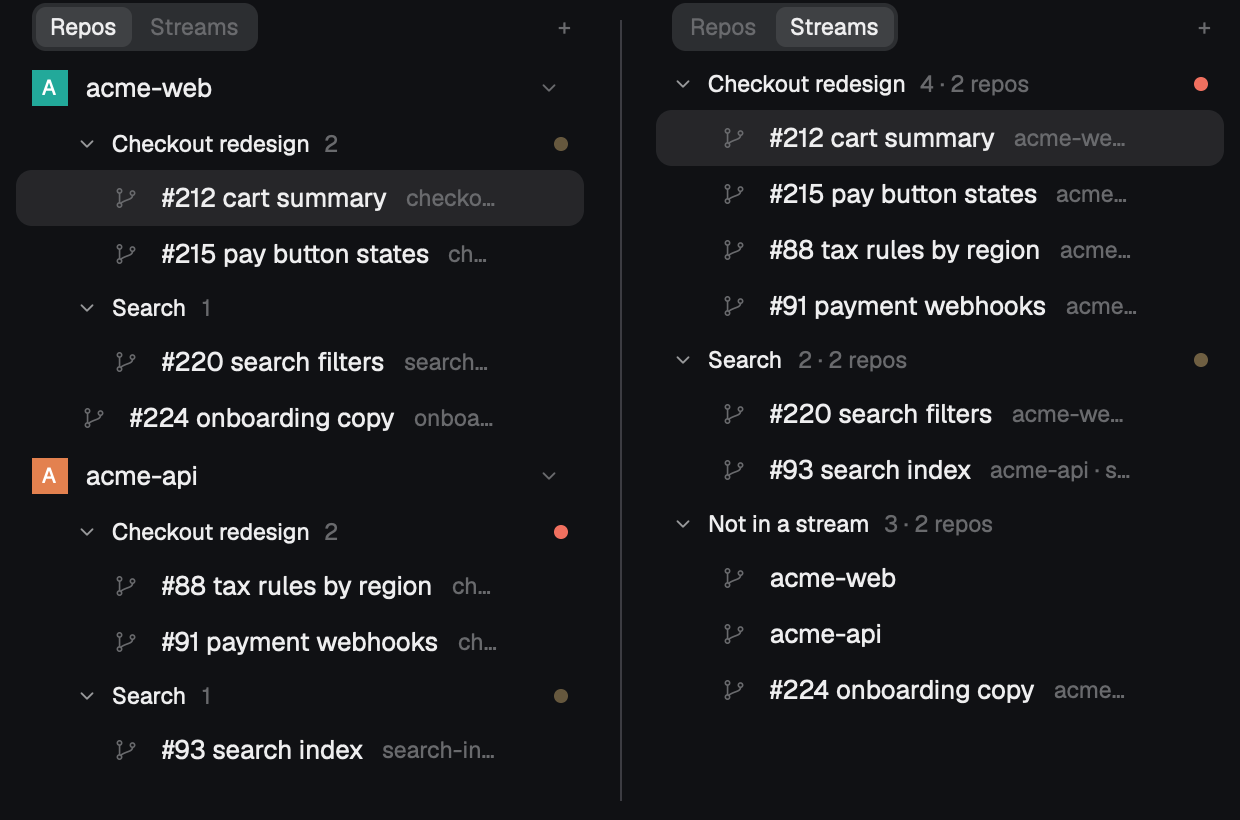
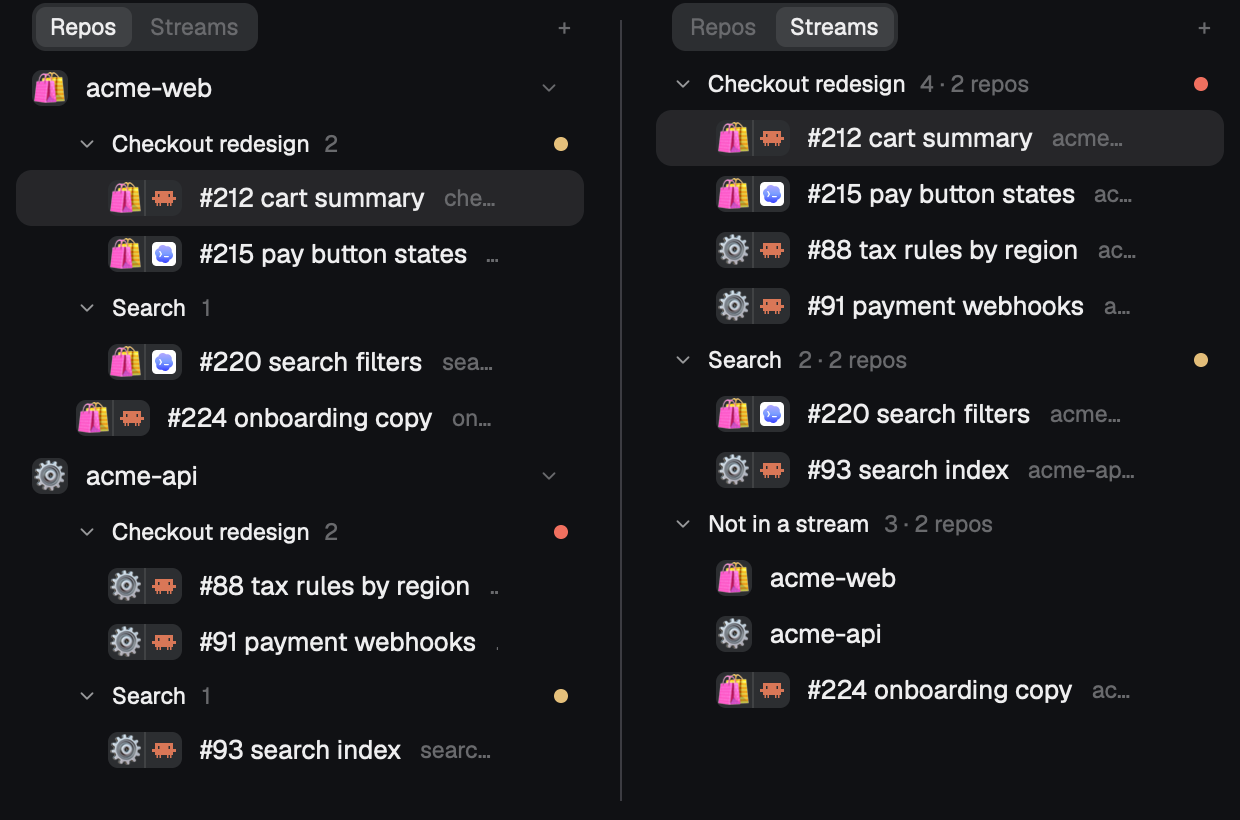
Bundle the emoji picker; repo mark on every Streams row; agent install prompt; new screenshots

diff --git a/mods/emoji-picker/main.js b/mods/emoji-picker/main.js
@@ -1,0 +1,123 @@
+// A popup for a space's (really its repo's) emoji. props: { key, name, overlay }.
+// Without props (a key bound to "mod.open:emoji-picker"), it's for the focused space's repo.
+// Choices live in shared("space.emoji"): { [key]: "🦊" }, read by sidebars such as space-streams.
+// Keys: a repo's is JSON [machine, absolute git common dir]; a space outside a repo's is "space:<id>".
+// Search uses macOS's own emoji search data (system-index.py), so "fox", "celebrate"
+// or "coffee" find what the system picker would.
+import { View, div } from "gpui-kit";
+import { v_flex, h_flex, InputState, Input } from "gpui-base";
+import { props, shared, setShared, closeOverlay, theme, exec, appHome, spaces, panes } from "herdr";
+
+// The focused space's target: its repo (shared by the repo's worktrees), else the space itself.
+async function focusedTarget() {
+  const s = spaces().find((x) => x.active);
+  if (!s) return null;
+  const tabs = new Set((s.tabs ?? []).map((c) => c.id));
+  const cwd = panes().find((p) => tabs.has(p.tab) && p.cwd)?.cwd || s.folder;
+  const on = s.machine ?? null;
+  const r = await exec("git", ["rev-parse", "--path-format=absolute", "--git-common-dir"], { cwd, on }).catch(() => null);
+  if (!r || r.code !== 0) return { key: `space:${s.id}`, name: s.name };
+  const dir = r.stdout.trim();
+  const name = dir.endsWith("/.git") ? dir.slice(0, -5).split("/").pop() : dir.split("/").pop().replace(/\.git$/, "");
+  return { key: JSON.stringify([on, dir]), name };
+}
+
+const KEY = "space.emoji";
+// Every match shows (scroll for more); the cap only guards a one-letter search.
+const COLUMNS = 10, SHOWN = 500, GRID_HEIGHT = 5 * 30 + 4 * 2;
+const START = [
+  "🚀", "🧠", "🧪", "🛠", "⚙", "🔥", "✨", "🌱", "🌊", "⚡",
+  "🎯", "📦", "🧩", "🗺", "🧭", "🏗", "🎨", "🖼", "👗", "👕",
+  "🛍", "💸", "📈", "📊", "🗄", "🔒", "🤖", "👾", "🐙", "🦊",
+  "🐝", "🦄", "🐳", "🦉", "🌵", "🍄", "🍋", "🍕", "☕", "🎲",
+  "🏴☠", "⛵", "🪐", "🌙", "☀", "🌈", "💎", "🔮", "🎸", "📚",
+];
+
+// The system index, built once per load of this mod and shared by every popup.
+let index = null;
+async function loadIndex() {
+  if (index) return index;
+  const r = await exec("python3", ["-I", `${appHome()}/mods/emoji-picker/system-index.py`]);
+  if (r.code !== 0) throw new Error(r.stderr.trim() || "no emoji index");
+  const data = JSON.parse(r.stdout);
+  index = { ...data, vocabulary: Object.keys(data.terms) };
+  return index;
+}
+
+// Every word must match a search term (whole, or as its start, while typing). An emoji whose
+// own name has the word ranks first, then the system's order for that term.
+function search(ix, query) {
+  const words = query.toLowerCase().split(/\s+/).filter(Boolean);
+  if (!words.length) return [];
+  let scores = null;
+  for (const word of words) {
+    const found = new Map();
+    const terms = ix.terms[word] ? [word] : [];
+    for (const term of ix.vocabulary) if (terms.length < 40 && term !== word && term.startsWith(word)) terms.push(term);
+    for (const term of terms) {
+      ix.terms[term].forEach((i, rank) => {
+        const name = (ix.names[ix.items[i]] ?? "").toLowerCase();
+        const score = (term === word ? 2 : 1) + (name.split(/\s+/).some((w) => w.startsWith(word)) ? 4 : 0) + 1 / (rank + 1);
+        found.set(i, Math.max(found.get(i) ?? 0, score));
+      });
+    }
+    scores = scores ? new Map([...scores].filter(([i]) => found.has(i)).map(([i, s]) => [i, s + found.get(i)])) : found;
+  }
+  return [...scores].sort((a, b) => b[1] - a[1]).slice(0, SHOWN).map(([i]) => ix.items[i]);
+}
+
+export default class EmojiPicker extends View {
+  init(_props, cx) {
+    this.query = ""; this.results = []; this.error = null; this.hover = null;
+    this.input = InputState.new({ placeholder: "Search emoji" });
+    this.input.on("change", (_e, cx) => { this.query = this.input.value(); this.update(cx); });
+    this.input.focus();
+    const p = props() ?? {};
+    this.target = p.key ? { key: p.key, name: p.name } : null;
+    if (!this.target) cx.spawn(async (cx) => { this.target = await focusedTarget(); cx.notify(); });
+    cx.spawn(async (cx) => {
+      try { await loadIndex(); } catch (e) { this.error = String(e?.message ?? e); }
+      this.update(cx);
+    });
+  }
+
+  update(cx) {
+    this.results = index ? search(index, this.query) : [];
+    cx.notify();
+  }
+
+  pick(emoji) {
+    const key = this.target?.key, overlay = props()?.overlay;
+    if (!key) return;
+    const all = { ...(shared(KEY) ?? {}) };
+    if (emoji) all[key] = emoji; else delete all[key];
+    setShared(KEY, all);
+    closeOverlay(overlay);
+  }
+
+  render() {
+    const t = theme(), key = this.target?.key, name = this.target?.name ?? "…", now = key ? (shared(KEY) ?? {})[key] : undefined;
+    const searching = Boolean(this.query.trim());
+    const shown = searching ? this.results : START;
+    const cell = (e, i) => div().id(`emoji-${i}`).size(30).flex().items_center().justify_center().rounded(6).text_size(17).cursor_pointer()
+      .when(e === now, (el) => el.bg(t.selected)).hover((s) => s.bg(t.hover))
+      .on_hover((on, cx) => { if (on) this.hover = e; else if (this.hover === e) this.hover = null; cx.notify(); })
+      .on_click(() => this.pick(e)).child(e);
+    const rows = [];
+    for (let i = 0; i < shown.length; i += COLUMNS) rows.push(h_flex().gap(2).children(shown.slice(i, i + COLUMNS).map((e, j) => cell(e, i + j))));
+    const label = this.hover ? index?.names[this.hover] ?? this.hover
+      : this.error ? `Search unavailable: ${this.error}`
+      : searching && !index ? "Loading the system's emoji…"
+      : searching && !shown.length ? "No emoji match"
+      : searching ? `${shown.length}${shown.length === SHOWN ? "+" : ""} match${shown.length === 1 ? "" : "es"}` : "Type to search all emoji";
+    return v_flex().id("emoji-picker").size_full().p(10).gap(8).bg(t.popover).text_color(t.foreground).text_size(12)
+      .child(h_flex().gap(6).items_center()
+        .child(div().flex_1().min_w(0).truncate().font_semibold().child(`Icon for ${name}`))
+        .when(Boolean(now), (el) => el.child(div().id("emoji-clear").px(6).py(2).rounded(5).text_size(11).text_color(t.muted).cursor_pointer()
+          .hover((s) => s.bg(t.hover).text_color(t.foreground)).on_click(() => this.pick(null)).child("Use letter"))))
+      .child(Input.new(this.input).h(30).px(8).rounded(7).border_1().border_color(t.input).bg(t.background).text_size(12).text_color(t.foreground))
+      // A popup sizes to its content, so the grid gets a fixed five-row height and scrolls past it.
+      .child(v_flex().id("emoji-grid").flex_none().h(GRID_HEIGHT).overflow_y_scrollbar().gap(2).children(rows))
+      .child(div().flex_none().h(16).text_size(11).text_color(t.dim).truncate().child(label));
+  }
+}

diff --git a/mods/space-streams/main.js b/mods/space-streams/main.js
@@ -663,7 +663,7 @@ export default class Spaces extends View {
           .gap(9)
           .items_center()
           .when(Boolean(tree), el => el.pl(depth === 2 ? 38 : 22))
-          .child(this.avatar(w, g, tree, fill, t))
+          .child(this.avatar(w, g, tree, fill, t, inStream))
           .child(div().flex_shrink(1).min_w(0).max_w(150).truncate().text_color(t.foreground).child(w.name))
           .children(g ? this.gitTail(g, inStream ? null : tree, w.name, t, where(w, panes())) : [div().flex_1()])
           // A repo's main checkout: + starts a new workspace (worktree, setup, agent) in it.
@@ -697,13 +697,15 @@ export default class Spaces extends View {
   }
 
   // The repo's emoji (else the name's first letter on its color); with an agent running in the
-  // space, half emoji and half the agent's icon. With emoji-picker installed, click it to choose the emoji.
-  avatar(w, g, tree, fill, t) {
+  // space, half emoji and half the agent's icon. Click it to choose the emoji (emoji-picker, bundled).
+  // In Streams view a row always wears its repo's mark (emoji, else letter on the repo's color),
+  // since rows from different repos sit side by side there.
+  avatar(w, g, tree, fill, t, inStream = false) {
     const emoji = (shared("space.emoji") ?? {})[emojiKey(w, g)];
     const agent = agentOf(w, panes());
     const mark = emoji
       ? div().size(18).flex_none().flex().items_center().justify_center().text_size(12.5).child(emoji)
-      : tree && !agent
+      : tree && !agent && !inStream
         ? div().size(18).flex_none().flex().items_center().justify_center().child(svg("mods/workspace-chrome/branch.svg").size(13).text_color(t.dim))
         : div().size(18).flex_none().flex().items_center().justify_center().bg(tree ? this.repoFill(g, t) ?? fill : fill).text_size(10.5).font_bold().text_color("#ffffff").child([...(tree ? g?.name ?? w.name : w.name)][0]?.toUpperCase() ?? "?");
     const picker = Boolean(this.has?.["emoji-picker"]);

diff --git a/mods/emoji-picker/system-index.py b/mods/emoji-picker/system-index.py
@@ -1,0 +1,49 @@
+# Prints macOS's own emoji search data as JSON for the picker: the emoji in the system's order,
+# their names, and each search term's emoji, best match first. Read from CoreEmoji, so it is
+# the same search the system picker does and follows OS updates.
+import json
+import plistlib
+import sys
+
+ROOT = "/System/Library/PrivateFrameworks/CoreEmoji.framework/Versions/A/Resources/"
+LANG = sys.argv[1] if len(sys.argv) > 1 else "en"
+SKIN = set(range(0x1F3FB, 0x1F400))
+
+
+def emoji_list():
+    # emojimeta.dat holds the system's emoji as one NUL-separated UTF-8 run; the search
+    # index numbers them from 1 in that order.
+    text = open(ROOT + "emojimeta.dat", "rb").read().decode("utf-8", "ignore")
+    at = text.find("\U0001F600")
+    part = lambda c: c == "\x00" or ord(c) > 0x7F or c in "#*0123456789"
+    start = end = at
+    while start > 0 and part(text[start - 1]):
+        start -= 1
+    while end < len(text) and part(text[end]):
+        end += 1
+    return [e for e in text[start:end].split("\x00") if e]
+
+
+def load(name):
+    with open(ROOT + name, "rb") as f:
+        return plistlib.load(f)
+
+
+items = emoji_list()
+names = load(f"{LANG}.lproj/AppleName.strings")
+terms_in = load(f"SearchModel-{LANG}/term_index.plist")
+docs = load(f"SearchModel-{LANG}/document_index.plist")
+
+terms = {}
+for term, ids in terms_in.items():
+    ranked = []
+    for i in ids:
+        e = items[i - 1] if 0 < i <= len(items) else None
+        # Skin-tone variants crowd every people search; the base emoji stands for them.
+        if not e or any(ord(c) in SKIN for c in e):
+            continue
+        ranked.append((-(docs.get(str(i), {}).get(term, {}).get("w", 0)), i - 1))
+    if ranked:
+        terms[term] = [i for _, i in sorted(ranked)]
+
+json.dump({"items": items, "names": names, "terms": terms}, sys.stdout, ensure_ascii=False, separators=(",", ":"))

diff --git a/RECIPE.md b/RECIPE.md
@@ -1,8 +1,10 @@
 # Space Streams
 
-A Spaces sidebar for people running many agents at once. A repo's worktree spaces go into named groups that fold away, and groups with the same name in different repos form one **work stream**. A Repos | Streams toggle at the top switches between "everything under its repo" and "everything in this effort, whatever repo it's in". Agents can put themselves in a stream with one `hc label`.
+A Spaces sidebar for people running many agents at once. A repo's worktree spaces go into named groups that fold away, and groups with the same name in different repos form one **work stream**. A Repos | Streams toggle at the top switches between "everything under its repo" and "everything in this effort, whatever repo it's in". Every repo can wear an **emoji**, and each row shows its repo's emoji next to its agent's icon. In a stream that mixes repos, that's how you tell at a glance which repo and which agent each space is. Agents can put themselves in a stream with one `hc label`.
 
 ![Space Streams](preview.png)
+
+![Picking a repo's emoji](emoji.png)
 
 ## What you see
 
@@ -14,6 +16,8 @@ The sidebar, top to bottom (it replaces Herdr's `spaces` block, about 240–300 
   - **Group members:** indented 38 px.
   - Ungrouped worktrees come after the groups.
 - **Streams view:** one header per stream, flush left: chevron, name, then "N" or "N · M repos". Its spaces from every repo are listed under it, each showing its repo name after its own name. Last comes **Not in a stream** with everything else.
+- **Avatars (18 px, 5 px corners):** the repo's emoji, else its first letter in white on the repo's color. A space with an agent running shows two halves: the repo mark, then the agent's icon (Claude, Codex, …) on `raised`. Worktrees share their repo's emoji and color. In Repos view a worktree without an agent shows a branch icon. In Streams view every row shows its repo mark.
+- **Emoji picker popup (360×300):** "Icon for <repo>" with a "Use letter" button, a search field, a 10-column grid of 30 px cells (50 starter emoji, or every search match up to 500), and a footer line with the hovered emoji's name or the match count.
 - **Narrow rail (< 160 px):** spaces only, no group headers.
 
 ## How it behaves
@@ -26,7 +30,8 @@ The sidebar, top to bottom (it replaces Herdr's `spaces` block, about 240–300 
 - **Agents group themselves:** `hc label "$HC_TERMINAL_ID" herdr.group="Checkout redesign"`. Within a second the sidebar puts that terminal's space into the group of that name in the space's repo (matched case-insensitively), creating it if needed. A label only acts when its value changes, so moving a space by hand sticks. Main checkouts and spaces outside a repo are ignored.
 - Closed spaces leave their group, and empty groups are deleted.
 - `data/space-groups.json` (under the Herdr home) is rewritten whenever groups change: every repo's groups, and the space names in each. Agents read it to reuse an existing stream name.
-- **Companions:** with `emoji-picker` installed, clicking an avatar picks the repo's emoji. With `new-workspace` installed, a repo's `+` opens it. Otherwise `+` opens Herdr's shipped worktree dialog. Worktree `×` always uses the shipped worktree remove dialog.
+- **Emoji:** click any avatar, or press `cmd-shift-e` for the focused space, to pick that repo's emoji. Search uses macOS's own emoji search, so "fox", "celebrate" or "coffee" find what the system picker finds. Picking sets it for the repo and all of its worktrees, and "Use letter" clears it.
+- **Companion:** with [herdr-one-agent-one-worktree](https://github.com/geooff/herdr-one-agent-one-worktree) (`new-workspace`) installed, a repo's `+` opens it. Otherwise `+` opens Herdr's shipped worktree dialog. Worktree `×` always uses the shipped worktree remove dialog.
 
 ## Built from
 
@@ -37,12 +42,14 @@ The sidebar, top to bottom (it replaces Herdr's `spaces` block, about 240–300 
   - **Herdr calls used:** `spaces()`, `panes()`, `terminals()`, `exec("git", …)`, `hc(["machine","ls"])`, `space.select`, `space.move`, `space.new`, `openOverlay`, and `fs/promises` `writeFile` for `data/space-groups.json`.
 - `mods/space-group`: the dialog (`kind: "dialog"`, 420×380). Props: `{ space }`, `{ group }` or `{ stream }`. It runs `git rev-parse --git-common-dir` in the space's folder to find its repo.
 - `mods/space-streams-menu`: the space right-click menu. It's a copy of Herdr's `menu` with **Move to group…** added for worktree spaces. It uses the shipped `worktree` dialog.
-- `keys.json`: `cmd-shift-g` → `space-streams.group`.
+- `mods/emoji-picker`: the popup (`place: "none"`, overlay 360×300). Props: `{ key, name }`. Without props it targets the focused space's repo. Choices live in `shared("space.emoji")` as `{ [key]: "🦊" }`, where a repo's key is the same `[machine, git common dir]` JSON and a space outside a repo uses `space:<id>`. `system-index.py` prints macOS's emoji search data (CoreEmoji framework resources) as JSON, and the picker runs it once with `python3 -I`.
+- **Agent icons:** from `panes()[i].program` (`agent` and `icon`), the same table Herdr's Agents list uses.
+- `keys.json`: `cmd-shift-g` → `space-streams.group`, `cmd-shift-e` → `mod.open:emoji-picker`.
 - **Icons:** the shipped `mods/workspace-chrome/*.svg`.
 
 ## Install
 
-1. Copy the three `mods/` folders into your Herdr home's `mods/`, `mod.json` first. Herdr docks a folder it sees without one.
+1. Copy the four `mods/` folders into your Herdr home's `mods/`, `mod.json` first. Herdr docks a folder it sees without one.
 2. Merge `keys.json` into yours.
 3. Clone your layout (`herdr-app do layout.clone '{"name":"main","as":"my-layout"}'`) and change the `spaces` block's `"mod": "spaces"` to `"mod": "space-streams"`.
 4. Optional: tell your agents about it. For example, in `~/.claude/CLAUDE.md`:
@@ -51,7 +58,7 @@ The sidebar, top to bottom (it replaces Herdr's `spaces` block, about 240–300 
 
 ## Watch out
 
-- **Runs programs:** `git` in each space's folder (on its machine for remote spaces) and `hc machine ls`. It writes one file outside its folder: `data/space-groups.json` in the Herdr home.
+- **Runs programs:** `git` in each space's folder (on its machine for remote spaces), `hc machine ls`, and `python3` for emoji search (reading macOS system files). Off macOS, emoji search shows "Search unavailable" but the starter grid still works. It writes one file outside its folder: `data/space-groups.json` in the Herdr home.
 - Rows in the list that aren't spaces (group headers) still need to be counted in drag geometry. Every drawn row carries a `key` (space id or `grp:<id>`), and a drag shifts rows by key.
 - A worktree only nests (and can be grouped) once the sidebar has seen its main checkout as a space. With the main checkout closed, its worktrees show flat at top level and their groups aren't drawn in Repos view (they still are in Streams).
 - Group names are matched case-insensitively and trimmed. "Props" and "Props & scenes" are different streams, so tell agents to copy names exactly.
@@ -66,4 +73,5 @@ The sidebar, top to bottom (it replaces Herdr's `spaces` block, about 240–300 
 - Clicking the header folds it to one row (plus the shown space). A blocked agent in a folded group shows a dot.
 - Right-click → Move to group… → typing a new name and Enter moves the space under a new header. Remove from group puts it back, and the empty group disappears.
 - Closing a grouped space removes it from the group.
-- `herdr-app check` passes for all three mods.
+- Clicking a repo's avatar opens "Icon for <repo>". Typing "fox" finds 🦊, and picking it shows 🦊 on the repo and every worktree. In Streams view, a row with an agent shows 🦊 plus the agent's icon.
+- `herdr-app check` passes for all four mods.

diff --git a/README.md b/README.md
@@ -1,9 +1,48 @@
 # Space Streams
 
-Herdr's Spaces sidebar with **groups** and **work streams**: fold a repo's worktree spaces into named groups, then flip to Streams to see one effort's agents across every repo. Agents can file themselves with `hc label "$HC_TERMINAL_ID" herdr.group="<name>"`.
+**Install: paste this to your agent inside Herdr**
 
-![Space Streams](preview.png)
+```text
+Read ~/.config/herdr-app/AGENTS.md, then add the Herdr mod at https://github.com/geooff/herdr-space-streams
+and make it my Spaces sidebar. Follow the "For agents" section of its README.
+```
 
-A mod for the [Herdr app](https://herdr.dev). Install it by asking your agent to "add herdr.dev/mods/geooff/herdr-space-streams", or by hand: copy the `mods/` folders into `~/.config/herdr-app/mods/` (`mod.json` first) and merge `keys.json` into yours. [RECIPE.md](RECIPE.md) describes exactly what it does and how it's built.
+---
 
-Works on its own. Picks up [herdr-emoji-picker](https://github.com/geooff/herdr-emoji-picker) and [herdr-new-workspace](https://github.com/geooff/herdr-new-workspace) when they're installed. Based on Herdr's shipped `spaces` and `menu` mods.
+Herdr's Spaces sidebar, rebuilt for running many agents at once:
+
+- **Groups:** a repo's worktree spaces fold into named groups.
+- **Streams:** flip the toggle to see one effort across every repo. Groups with the same name in different repos merge into one work stream.
+- **Repo emoji:** every row shows its repo's emoji next to its agent's icon, so in a mixed stream you can tell at a glance which repo and which agent each space is.
+- **Agents file themselves:** `hc label "$HC_TERMINAL_ID" herdr.group="<stream name>"`.
+
+![Repos view and Streams view](preview.png)
+
+![Picking a repo's emoji](emoji.png)
+
+| | |
+|---|---|
+| Click a group or stream header | fold it (it still shows the space you're in, and a dot if a hidden agent is blocked or done) |
+| Double-click or right-click a header | rename, ungroup, collapse others |
+| Right-click a worktree → **Move to group…**, or `cmd-shift-g` | pick a group, join a stream from another repo, or name a new one |
+| Drag a worktree onto a header | move it in |
+| Click an avatar, or `cmd-shift-e` | pick the repo's emoji (macOS emoji search) |
+
+It works on its own. With [herdr-one-agent-one-worktree](https://github.com/geooff/herdr-one-agent-one-worktree) installed, a repo's `+` opens that flow. Without it, `+` opens Herdr's own worktree dialog. [RECIPE.md](RECIPE.md) describes exactly what it does and how it's built. It's based on Herdr's shipped `spaces` and `menu` mods.
+
+## For agents
+
+You're installing this into the person's Herdr home (`~/.config/herdr-app`, or `$HERDR_APP_HOME`). Read its `AGENTS.md` first.
+
+1. **Tell the person first:** this mod runs `git` in their spaces' folders, `hc machine ls`, and `python3` (macOS emoji search data). It also writes `data/space-groups.json` in the Herdr home.
+2. **Copy the mods:** copy `mods/space-streams`, `mods/space-streams-menu`, `mods/space-group` and `mods/emoji-picker` into `<home>/mods/`. Write each folder's `mod.json` before its `main.js`, because Herdr docks a folder it sees without one. If a name is already taken, rename the new one and every reference to it, and tell the person.
+3. **Merge keys:** merge `keys.json` into `<home>/keys.json` (`cmd-shift-g` → `space-streams.group`, `cmd-shift-e` → `mod.open:emoji-picker`). Ask before replacing a key they already use.
+4. **Make it the sidebar:** find the layout they use (`herdr-app status` → `layout`).
+   - If it's a shipped layout (`main`), clone it first: `herdr-app do layout.clone '{"name":"main","as":"my-layout"}'`.
+   - In their layout, change the Spaces block's `"mod": "spaces"` (or their own spaces mod) to `"mod": "space-streams"`. Check `layout.error` afterwards.
+5. **Check:** run `herdr-app check` on each of the four folders and `herdr-app status` (no errors). Take a `herdr-app shot` and confirm the sidebar shows the **Repos | Streams** toggle.
+6. **Agent rule (ask first):** offer to add this to the person's agent instructions (e.g. `~/.claude/CLAUDE.md` or `AGENTS.md`):
+
+   > **Herdr work streams.** When you run inside Herdr in a repo worktree, read `~/.config/herdr-app/data/space-groups.json` and join the work stream your work belongs to: `hc label "$HC_TERMINAL_ID" herdr.group="<exact stream name>"`. Reuse an existing name character for character, even one from another repo. Only make a new one when nothing fits, and name the effort, not your slice of it. Skip this for one-off tasks. If you start other agents for a batch, choose the stream name yourself and put it in each one's prompt.
+
+7. **Report back:** tell the person how to switch views, group a space (`cmd-shift-g`) and set an emoji (click an avatar), and how to undo: point the layout back at `spaces` and delete the four folders.
